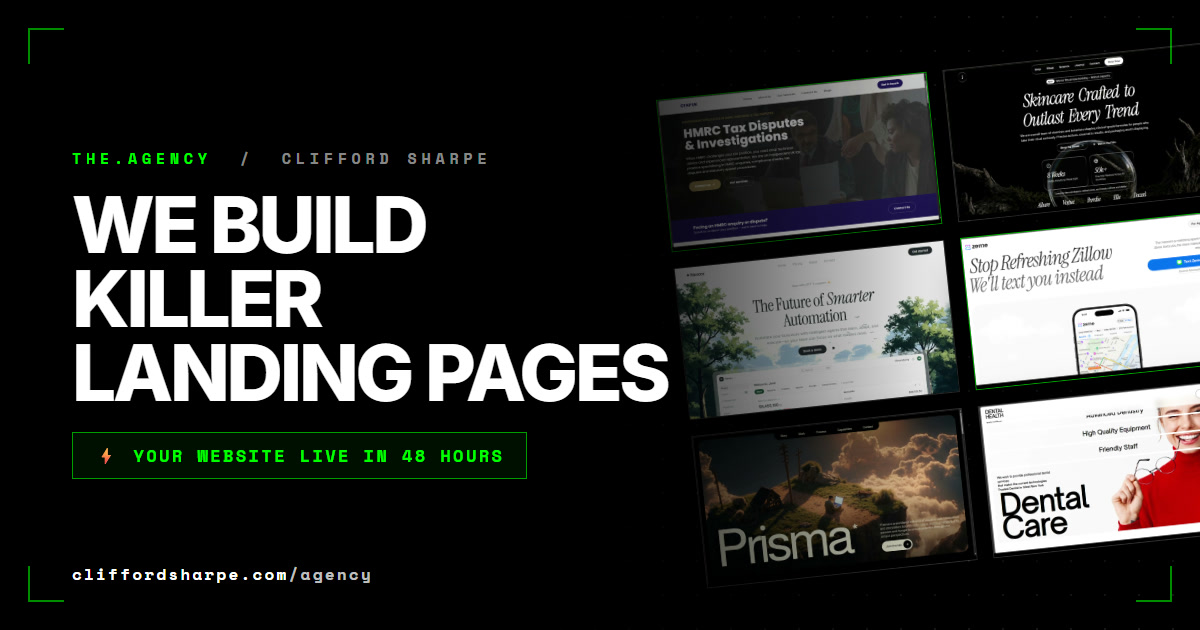
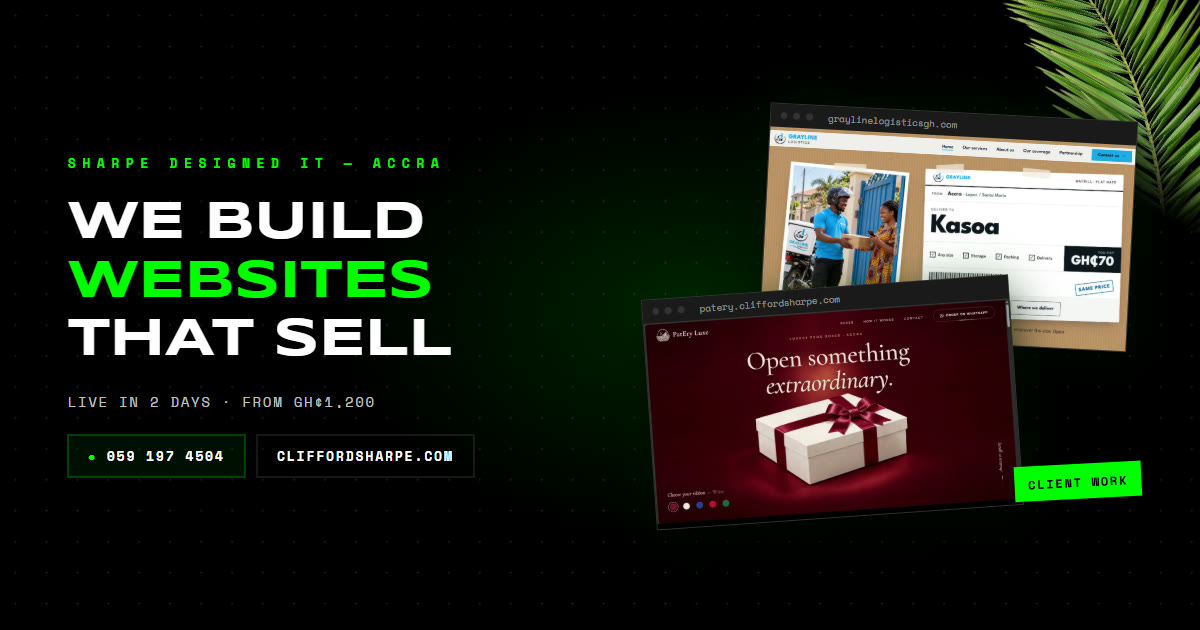
Rebrand to Sharpe Designed It: drop 'The Agency' from headers, footer, titles and the link preview

diff --git a/scripts/generate-og-pages.js b/scripts/generate-og-pages.js
@@ -31,7 +31,7 @@ const pages = [
   },
   {
     file: "agency.html",
-    title: "The Agency | Clifford Sharpe — We Build Killer Landing Pages",
+    title: "Sharpe Designed It | Websites & Landing Pages, Accra",
     description: "High-converting landing pages and digital experiences built for brands that mean business.",
     image: "https://cliffordsharpe.com/og/agency.jpg",
     url: "https://cliffordsharpe.com/agency",
@@ -111,7 +111,7 @@ function promoPreloads() {
 }
 
 const PROMO_QUICK_LOOK = `<div style="min-height:100vh;background:#000;color:#fff;font-family:'Space Mono',ui-monospace,monospace">
-      <div style="display:flex;justify-content:space-between;align-items:center;padding:20px;border-bottom:1px solid rgba(255,255,255,.05);font-size:11px;font-weight:700;letter-spacing:.4em"><span>THE<span style="color:#00ff00">.</span>AGENCY</span><span style="font-size:10px;letter-spacing:.2em;color:#00ff00;border:1px solid rgba(0,255,0,.3);padding:8px 16px;text-transform:uppercase">Request</span></div>
+      <div style="display:flex;justify-content:space-between;align-items:center;padding:20px;border-bottom:1px solid rgba(255,255,255,.05);font-size:11px;font-weight:700;letter-spacing:.4em"><span>SHARPE<span style="color:#00ff00">.</span>DESIGNED<span style="color:#00ff00">.</span>IT</span><span style="font-size:10px;letter-spacing:.2em;color:#00ff00;border:1px solid rgba(0,255,0,.3);padding:8px 16px;text-transform:uppercase">Request</span></div>
       <div style="margin:24px 20px 0;padding:56px 24px;display:flex;flex-direction:column;align-items:center;text-align:center;gap:28px">
         <div style="font-size:10px;font-weight:700;letter-spacing:.5em;color:#00ff00;text-transform:uppercase">2-Day Website Promo</div>
         <h1 style="margin:0;font-family:Syncopate,'Space Grotesk',system-ui,sans-serif;font-weight:700;text-transform:uppercase;line-height:1.15;font-size:clamp(24px,7.5vw,52px);max-width:56rem">Your business website in 2 days</h1>

diff --git a/src/components/AIAgency.tsx b/src/components/AIAgency.tsx
@@ -531,7 +531,7 @@ export default function AIAgency() {
       </motion.div>
 
       <SEO
-        title="The Agency | Clifford Sharpe — We Build Killer Landing Pages"
+        title="Sharpe Designed It | Websites & Landing Pages, Accra"
         description="Custom landing pages and websites built to convert. Beautiful design, smooth animations, and fast performance. We help brands stand out online."
         image="/og/agency.jpg"
         path="/agency"
@@ -829,7 +829,7 @@ export default function AIAgency() {
 
             {/* Brand */}
             <div className="space-y-4">
-              <div className="text-[10px] font-bold text-[#00ff00] uppercase tracking-[0.4em]">THE.AGENCY</div>
+              <div className="text-[10px] font-bold text-[#00ff00] uppercase tracking-[0.4em]">SHARPE.DESIGNED.IT</div>
               <p className="text-[9px] text-white/30 uppercase leading-relaxed tracking-widest">
                 Clifford Sharpe — Designer. We build landing pages and websites that drive real results for startups and brands.
               </p>
@@ -879,7 +879,7 @@ export default function AIAgency() {
           </div>
 
           <div className="flex justify-between items-center py-8 text-[8px] uppercase tracking-[0.5em] text-white/10 border-t border-white/5">
-            <div>© 2026 CLIFFORD SHARPE // THE AGENCY // ALL RIGHTS RESERVED</div>
+            <div>© 2026 SHARPE DESIGNED IT // CLIFFORD SHARPE // ALL RIGHTS RESERVED</div>
             <div className="hidden md:flex items-center gap-4">
               <span>info@cliffordsharpe.com</span>
               <div className="w-4 h-[1px] bg-white/5" />

diff --git a/src/components/Navbar.tsx b/src/components/Navbar.tsx
@@ -40,7 +40,7 @@ export default function Navbar() {
             to="/agency"
             className="text-white font-bold tracking-widest uppercase text-[10px] border border-white/20 px-3 py-1 hover:bg-white hover:text-black transition-all"
           >
-            Agency
+            Websites
           </Link>
           <button onClick={() => goToSection("projects")} className="hover:text-white transition-colors">
             Projects
@@ -113,7 +113,7 @@ export default function Navbar() {
             className="fixed inset-0 z-[55] bg-black/95 backdrop-blur-xl flex flex-col items-center justify-center gap-8 md:hidden"
           >
             <Link to="/agency" onClick={() => setIsOpen(false)} className="text-3xl font-display font-bold hover:text-white/60 transition-colors">
-              Agency
+              Websites
             </Link>
             <button onClick={() => goToSection("projects")} className="text-3xl font-display font-bold hover:text-white/60 transition-colors">
               Projects

diff --git a/src/components/Promo.tsx b/src/components/Promo.tsx
@@ -233,7 +233,7 @@ export default function Promo() {
       {/* Header */}
       <header className="relative z-20 flex items-center justify-between px-5 md:px-12 py-5 border-b border-white/5">
         <a href="/agency" className="text-[11px] font-bold uppercase tracking-[0.4em]">
-          THE<span style={{ color: GREEN }}>.</span>AGENCY
+          SHARPE<span style={{ color: GREEN }}>.</span>DESIGNED<span style={{ color: GREEN }}>.</span>IT
         </a>
         <button onClick={scrollToForm} className="text-[10px] font-bold uppercase tracking-[0.2em] text-[#00ff00] border border-[#00ff00]/30 px-4 py-2 hover:bg-[#00ff00] hover:text-black transition-colors">
           Request

diff --git a/src/components/AgencyNavbar.tsx b/src/components/AgencyNavbar.tsx
@@ -39,7 +39,7 @@ export default function AgencyNavbar({ top, onContactClick }: AgencyNavbarProps)
           onClick={(e) => { e.preventDefault(); setIsMenuOpen(false); window.scrollTo({ top: 0, behavior: "smooth" }); }}
           className="text-[12px] font-bold uppercase tracking-[0.3em] hover:text-[#00ff00] transition-colors"
         >
-          The<span className="text-[#00ff00]">.</span>Agency
+          Sharpe<span className="text-[#00ff00]">.</span>Designed<span className="text-[#00ff00]">.</span>It
         </a>
 
         <div className="hidden md:flex items-center gap-8">
